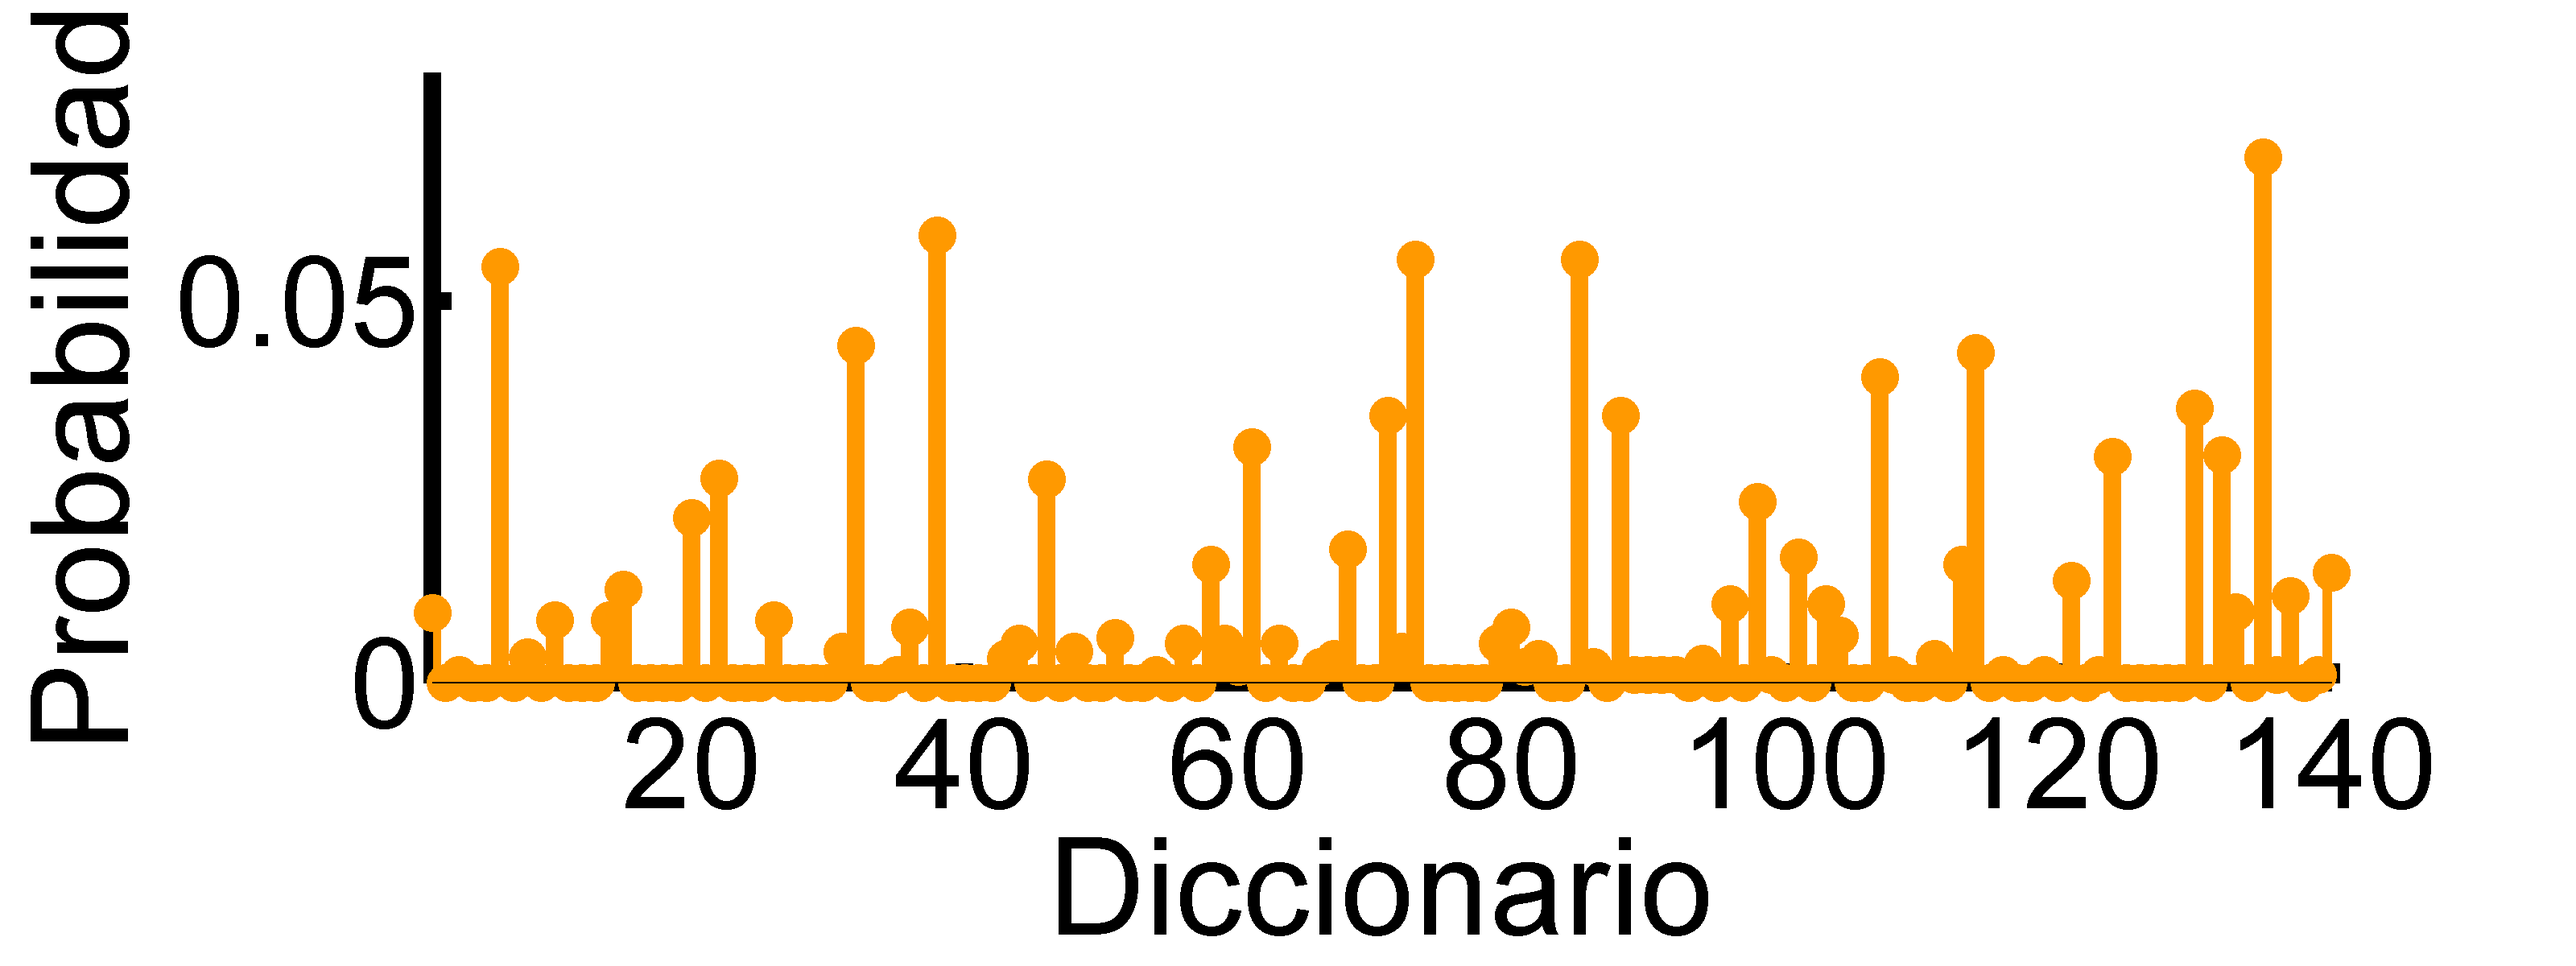
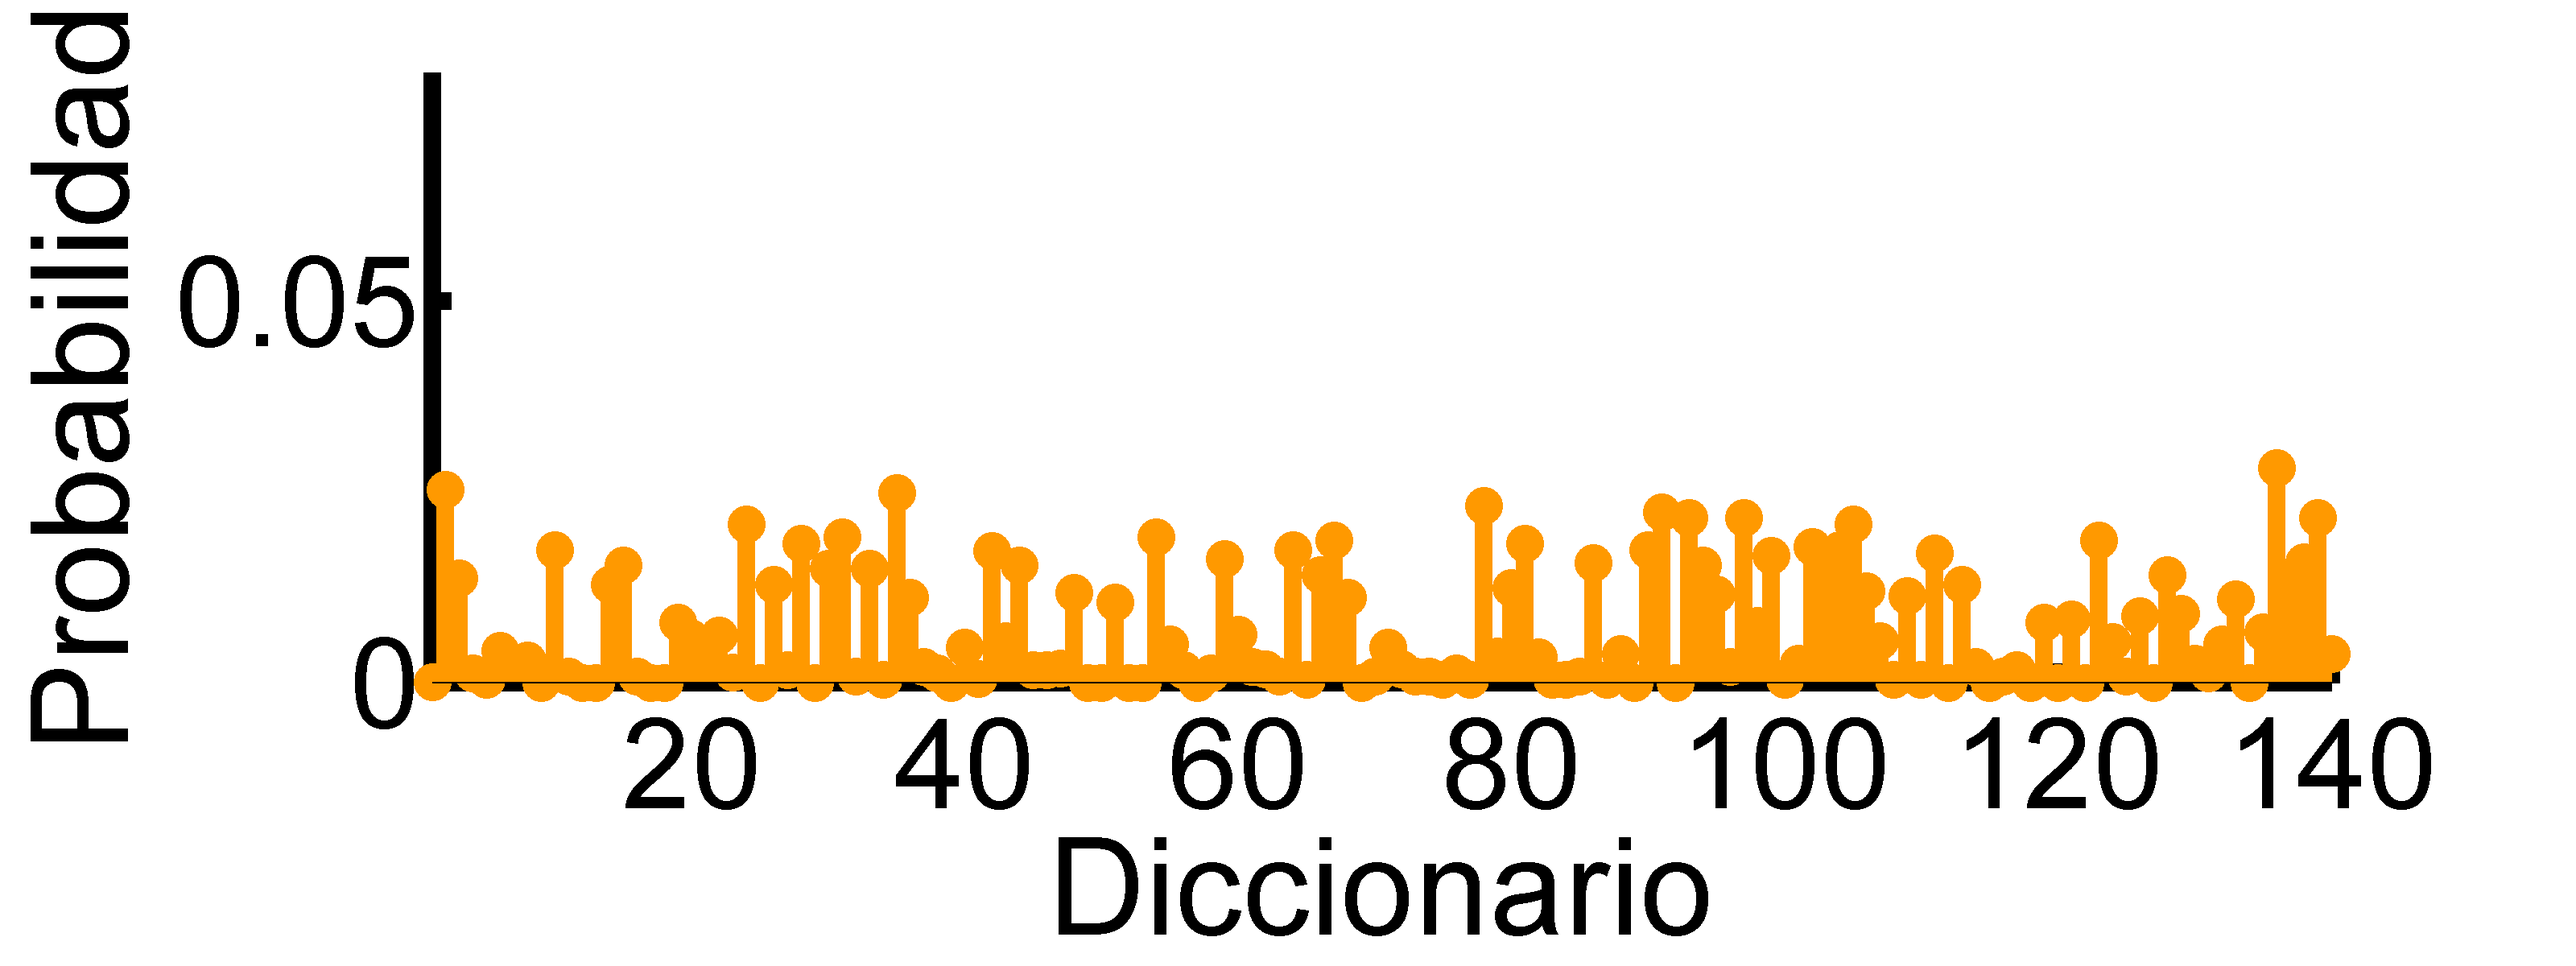
module for estimate transition matrix

Changed region(s): [[0.1562, 0.1542, 0.9375, 0.74]]

diff --git a/hmm/sort_params.m b/hmm/sort_params.m
@@ -17,8 +17,10 @@ function [ param ] = sort_params(orig, dest, collapse)
     per = zeros(n, 1);
     
     for i = 1:n
-        per(i) = mean(orig.hid(dest.hid == i));
+        per(i) = mode(orig.hid(dest.hid == i));
     end
+    %[~, per] = max(dest.mtrans, [], 1);
+    %disp(per);
     
     if difsize && collapse
         dd = dist(per');
@@ -42,8 +44,10 @@ function [ param ] = sort_params(orig, dest, collapse)
         [ignor, per] = sort(per);
 
         param = dest;
-
-        param.mtrans = param.mtrans(per, :);
+        disp(per);
+        
+        %
+        param.mtrans = param.mtrans(per, :);        
         param.memisn = param.memisn(per, :);
 
         for i = 1:n

diff --git a/hmm/estim_mtrans.m b/hmm/estim_mtrans.m
@@ -1,0 +1,15 @@
+function [ mtrans ] = estim_mtrans( grd )
+    nsp = max(grd);
+    lgd = length(grd);
+    spk = zeros(nsp, nsp);
+    
+    for i = 1:(lgd-1)
+        n = grd(i);
+        m = grd(i+1);
+        
+        spk(n, m) = spk(n, m)+1;
+    end
+    
+    mtrans = normalize(spk, 2);
+end
+
